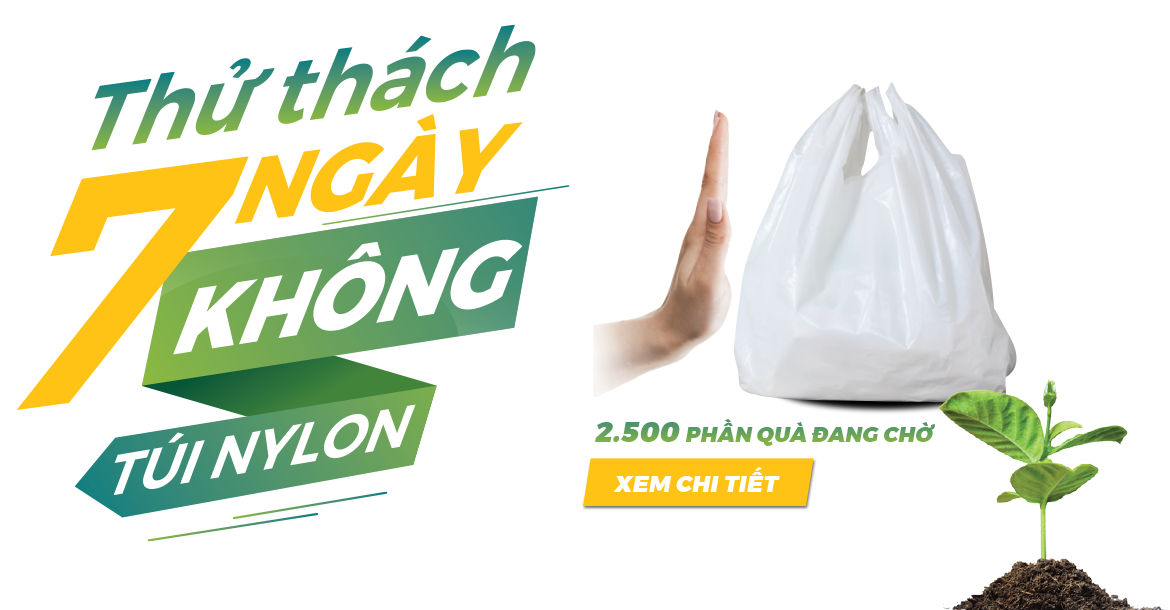
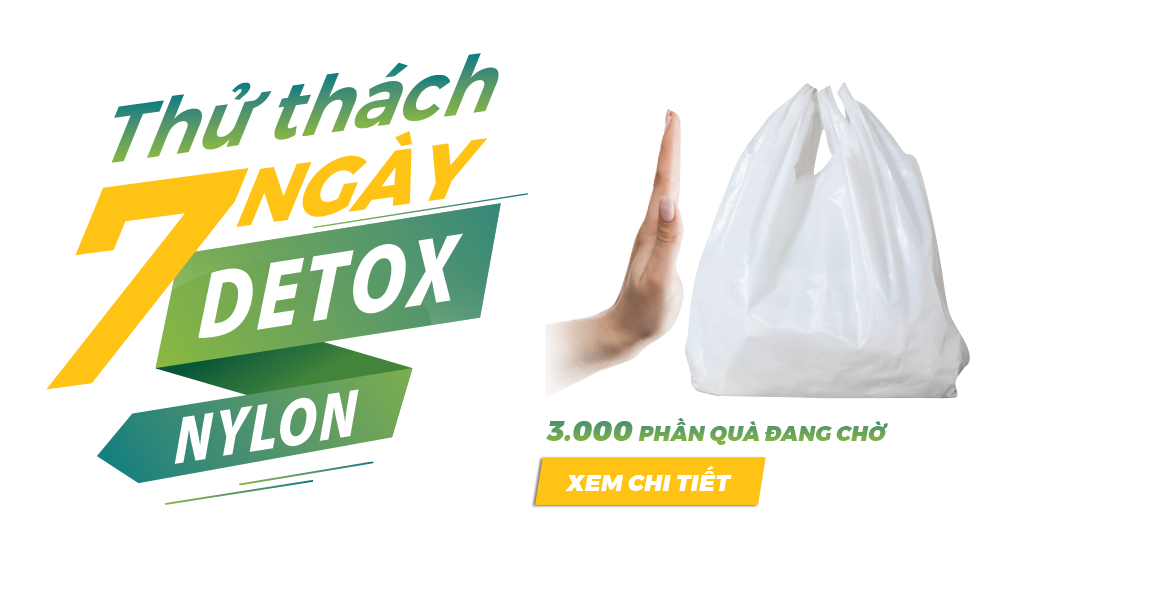
quyendn

diff --git a/aneco/index.html b/aneco/index.html
@@ -212,8 +212,8 @@
             	<div class="row">
                 	<div class="col-sm-8">
                     	<div><img src="img/logo_ft.png"></div>
-                    	<h3>Sản phẩm vi sinh phân hủy hoàn toàn AnEco</h3>
-                        <h4>Tập đoàn An Phát Holdings</h4>
+                    	<h3>TÚI VI SINH PHÂN HỦY HOÀN TOÀN ANECO</h3>
+                        <h4>MỘT SẢN PHẨM CỦA TẬP ĐOÀN AN PHÁT HOLDINGS</h4>
                         <p>Địa chỉ: Tầng 17, Tòa nhà PV Oil, 148 Hoàng Quốc Việt, Quận Cầu Giấy, Hà Nội</p>
                         <p>Tel: <a href="" class="phone">0243 21 91277</a></p>
                         <div class="social">
@@ -236,8 +236,18 @@
                     	<button type="button" class="close" data-dismiss="modal" aria-label="Close">x</button>
                     	<h3>THỂ LỆ CHƯƠNG TRÌNH</h3>
                         <hr/>
-                    	<p>"Dĩ nhiên, tôi không hài lòng khi đội nhà không thể vào chung kết nhưng đây là một trải nghiệm khác cho các cầu thủ của tôi. Tôi muốn chúc mừng Malaysia. Họ xứng đáng được vào chung kết", HLV Rajevac bày tỏ sau trận đấu trên sân Rajamangala tối qua 5/12.</p>
-                    	<p>Sau trận hòa 0-0 trên sân của Malaysia, Thái Lan hai lần vượt lên dẫn trước trong trận lượt về trên sân nhà ở thủ đô Bangkok. Nhưng cả hai lần họ đều bị gỡ hòa. Trong những phút bù giờ của hiệp hai, Thái Lan được hưởng phạt đền nhưng Adisak Kraison đá lên trời. Hòa chung cuộc sau hai lượt trận với tỷ số 2-2, họ bị loại bởi luật bàn thắng sân khách. "Trong cả hai trận lượt đi và về, Malaysia rõ ràng đã thể hiện được nhiều quyết tâm và hiếu chiến hơn. Họ thể hiện bản thân rất muốn vào chung kết", Rajevac nói.</p>
+  
+                            <p>Thói quen đựng đồ ăn nóng vào túi nylon hoặc hộp xốp có khả năng ảnh hưởng đến sức khỏe người sử dụng. Khi bị nhiễm vi nhựa (bị phân rã từ Nylon nếu trong thành phần có chất phụ gia tự hủy và được tiếp xúc với ánh sáng và nhiệt độ bên ngoài) có thể làm tổn thương hệ thống miễn dịch và gián đoạn các vấn đề về hành vi, nhận thức,... 
+                            </p>
+                            <p>
+                            Chính vì vậy, <b>AnEco</b> tung chương trình <b>THỬ THÁCH 7 NGÀY DETOX NYLON</b> với mong muốn mọi người có thể thôi đừng dùng túi nylon và thay thế bằng các biện pháp khác...
+                        </p>
+                        <p>
+                            Nếu như được TẶNG Túi vi sinh AnEco với thành phần từ tinh bột ngô hóa dẻo (PLA) và nhựa sinh học (PBAT) - "Thân thiện với môi trường – An toàn cho sức khỏe – Giống túi nylon, nhưng không phải là nylon" để dùng thay thế cho túi nylon thông thường, bạn có sẵn sàng tham gia <b>TRẢI NGHIỆM</b> hay không? 
+                            </p>
+                            <p>
+                                Đăng ký để tự thử thách chính mình và nhận Quà từ <b>AnEco</b> nhé!
+                            </p>
                     </div>
                 </div>
           </div>
